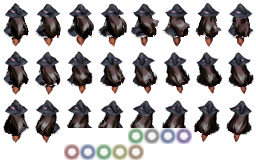
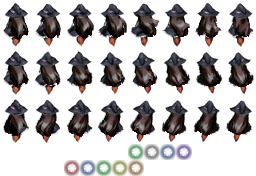
whoops

diff --git a/LetoilePlayerReskin/files.js b/LetoilePlayerReskin/files.js
@@ -73,7 +73,7 @@
 	"th10/ReimuB.png": 121160634,
 	"th10/ReimuC.png": 2117832362,
 	"th10/player/pl00/pl00.png": 1307363405,
-	"th10/player/pl01/pl01.png": 3602398015,
+	"th10/player/pl01/pl01.png": 1078548330,
 	"th10/title/weapon.png": 899160987,
 	"th11/MarisaA.png": 59914826,
 	"th11/MarisaB.png": 2326965373,